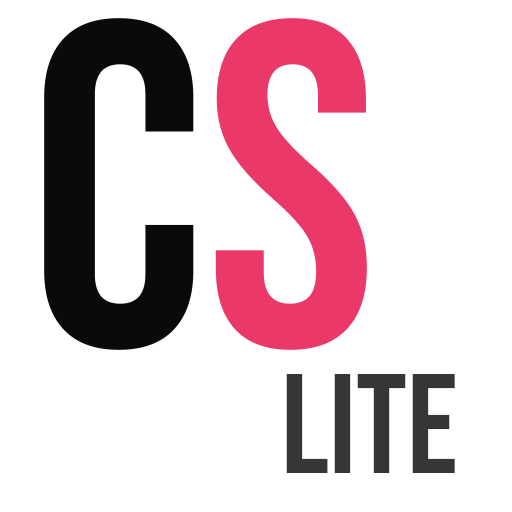
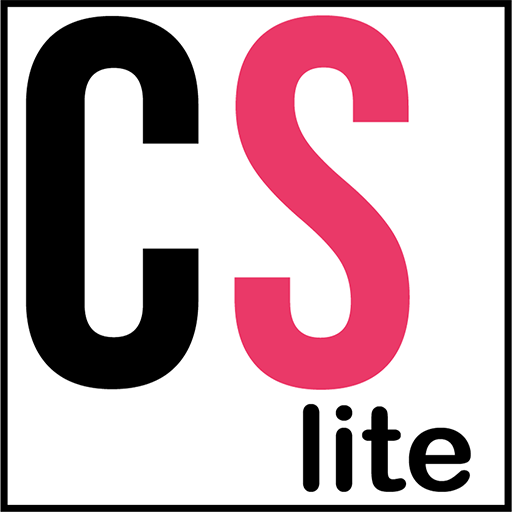
seo: asset and SEO updates

diff --git a/src/components/SEO.tsx b/src/components/SEO.tsx
@@ -14,10 +14,10 @@ export const SEO = (props: SEOProps) => {
       ? "https://www.cs-lite.com"
       : "http://localhost:3000";
   const {
-    title = "Community Solidarity",
-    description = "America's largest hunger relief organization.",
+    title = "CS lite",
+    description = "A minimal alternative to communitysolidarity.org",
     path = "/",
-    icon = "longislandclaims.svg",
+    icon = "cs-lite.jpg",
   } = props;
   const URL = `${SITE_URL}${path}`;
   return (
